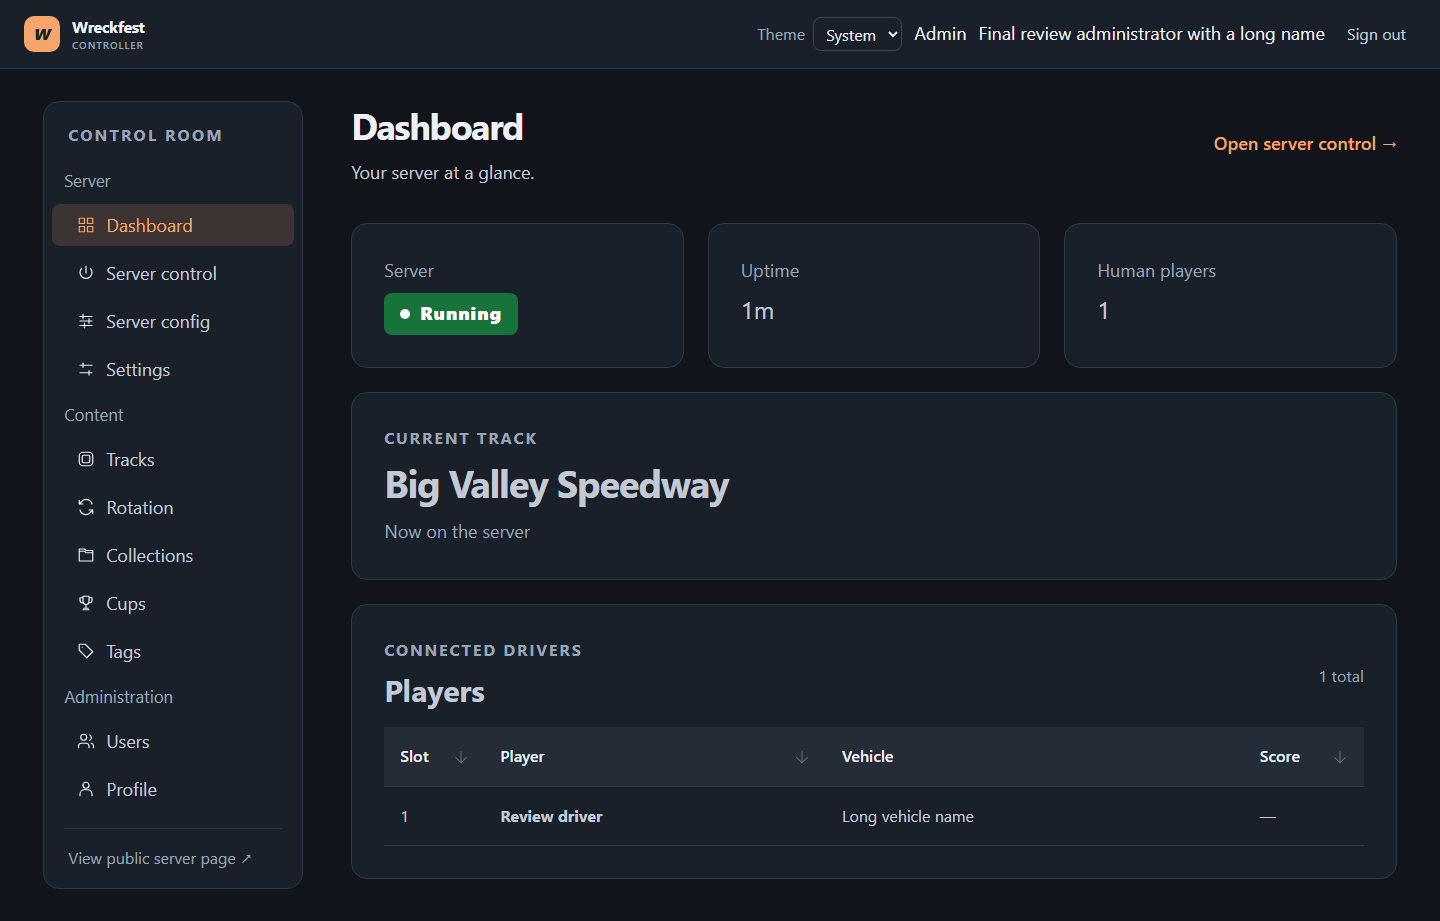
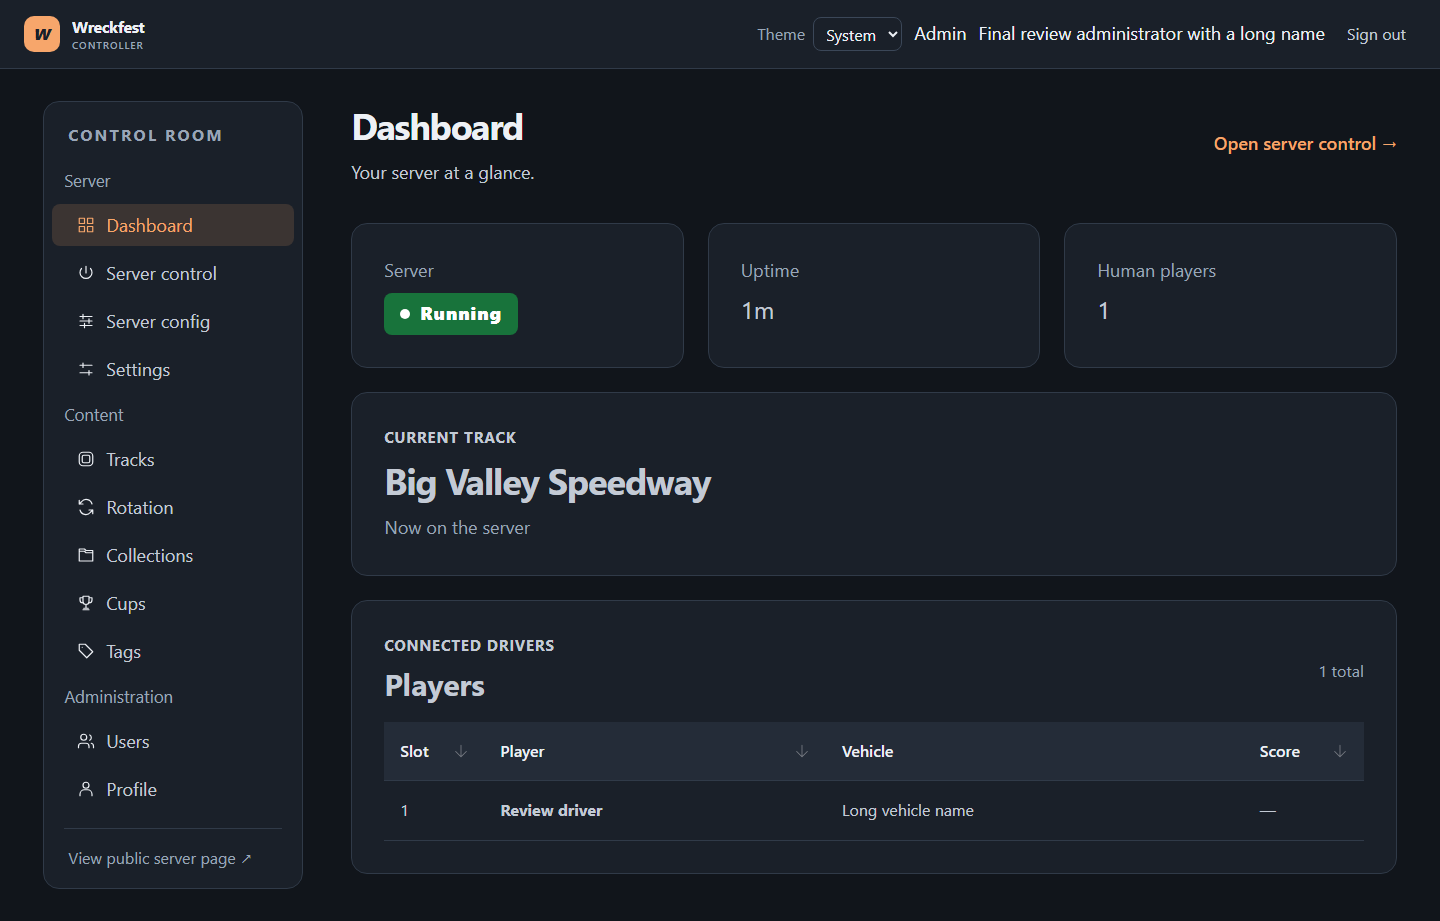
Align admin statuses and typography with the design guide

diff --git a/web/src/views/admin/CupsView.vue b/web/src/views/admin/CupsView.vue
@@ -1,7 +1,8 @@
 <script setup lang="ts">
+import StatusBadge from '@/components/StatusBadge.vue'
 import PageHeader from '@/components/PageHeader.vue'
 import { h, onBeforeUnmount, onMounted, ref, useId } from 'vue'
-import { NButton, NCard, NSpace, NTag, useMessage, type DataTableColumns } from 'naive-ui'
+import { NButton, NCard, NSpace, useMessage, type DataTableColumns } from 'naive-ui'
 import { api } from '@/api/client'
 import type { components } from '@/api/schema'
 import ResourceTable from '@/crud/ResourceTable.vue'
@@ -117,7 +118,7 @@ function activeTag(c: Cup) {
   if (!c.isActive) return null
   const label = c.phase === 'Warmup' ? 'Warmup' : 'Active'
   const title = c.phase === 'Warmup' && c.currentStart ? `Starts ${formatWhen(c.currentStart)}` : c.currentEnd ? `Ends ${formatWhen(c.currentEnd)}` : undefined
-  return h(NTag, { size: 'small', type: c.phase === 'Warmup' ? 'warning' : 'success', class: 'flag', title }, () => label)
+  return h(StatusBadge, { compact: true, tone: c.phase === 'Warmup' ? 'warning' : 'positive', class: 'flag', title }, () => label)
 }
 
 /** The next occurrence, with its warmup and end when it has them. */
@@ -148,7 +149,7 @@ const columns: DataTableColumns<Cup> = [
   {
     title: 'Actions',
     key: 'actions',
-    width: 205,
+    width: 245,
     render: (c) =>
       h(NSpace, { size: 'small', wrap: false }, () => [
         h(NButton, { size: 'small', disabled: busy.value !== null, 'aria-label': 'Edit ' + c.name, onClick: () => void cupEditor.value?.start(c) }, () => 'Edit'),
@@ -217,11 +218,11 @@ onBeforeUnmount(() => {
         </NButton>
         <!-- A failed reload keeps the draft and its notices: show them beside the failure. -->
         <span v-if="rotation" class="rotation-summary" role="status">
-          <NTag v-if="rotation.status === 'failed'" size="small" type="warning" :bordered="false">Could not be read</NTag>
-          <NTag v-if="rotation.notice === 'conflict'" size="small" type="error" :bordered="false">Changed elsewhere</NTag>
-          <NTag v-else-if="rotation.notice === 'stale'" size="small" type="info" :bordered="false">Changed on the server</NTag>
-          <NTag v-else-if="rotation.notice === 'offer'" size="small" type="info" :bordered="false">Save to the cup too?</NTag>
-          <NTag v-if="rotation.dirty" size="small" type="warning" :bordered="false">Unsaved changes</NTag>
+          <StatusBadge v-if="rotation.status === 'failed'" compact tone="negative">Could not be read</StatusBadge>
+          <StatusBadge v-if="rotation.notice === 'conflict'" compact tone="negative">Changed elsewhere</StatusBadge>
+          <StatusBadge v-else-if="rotation.notice === 'stale'" compact tone="warning">Changed on the server</StatusBadge>
+          <StatusBadge v-else-if="rotation.notice === 'offer'" compact tone="neutral">Save to the cup too?</StatusBadge>
+          <StatusBadge v-if="rotation.dirty" compact tone="warning">Unsaved changes</StatusBadge>
           <template v-if="rotation.loaded">
             {{ rotation.tracks }} {{ rotation.tracks === 1 ? 'track' : 'tracks' }} ·
             {{ rotation.cupName ? `set by ${rotation.cupName}` : "the server's own" }}

diff --git a/web/src/theme/tokens.ts b/web/src/theme/tokens.ts
@@ -10,6 +10,9 @@ export const design = {
   display: 'clamp(36px, 5vw, 64px)', lineHeight: '1.65',
   wide: '1600px', form: '840px', formWide: '1120px',
   radiusControl: '8px', radiusPanel: '16px',
+  controlSmall: '36px', controlMedium: '42px', controlLarge: '48px',
+  tagSmall: '28px', tagMedium: '32px', tagLarge: '36px',
+  statusWarning: '#855b03',
   statusPositive: '#18733b', statusNegative: '#be2535', statusText: '#ffffff',
 }
 
@@ -17,9 +20,9 @@ const shared = {
   fontFamily: "system-ui, -apple-system, 'Segoe UI', sans-serif",
   fontFamilyMono: "'Cascadia Mono', Consolas, monospace",
   fontSize: design.body,
-  fontSizeSmall: design.control, fontSizeMedium: design.control, fontSizeLarge: '20px',
+  fontSizeSmall: design.control, fontSizeMedium: design.control, fontSizeLarge: design.count,
   lineHeight: design.lineHeight,
-  heightSmall: '36px', heightMedium: '42px', heightLarge: '48px',
+  heightSmall: design.controlSmall, heightMedium: design.controlMedium, heightLarge: design.controlLarge,
   fontWeightStrong: '600',
   borderRadius: design.radiusControl,
   borderRadiusSmall: '5px',
@@ -54,7 +57,13 @@ export function themeOverrides(mode: ColorMode): GlobalThemeOverrides {
       fontSizeSmall: design.body, fontSizeMedium: design.body, fontSizeLarge: design.body,
       paddingSmall: 'var(--panel-padding)', paddingMedium: 'var(--panel-padding)',
       paddingLarge: 'var(--panel-padding)', paddingHuge: 'var(--panel-padding)',
-      titleFontSizeSmall: '22px', titleFontSizeMedium: '24px', titleFontSizeLarge: design.section,
+      titleFontSizeSmall: design.item, titleFontSizeMedium: design.event, titleFontSizeLarge: design.section,
+    },
+    Tag: {
+      fontSizeTiny: design.label, fontSizeSmall: design.label,
+      fontSizeMedium: design.control, fontSizeLarge: design.control,
+      heightTiny: design.tagSmall, heightSmall: design.tagSmall,
+      heightMedium: design.tagMedium, heightLarge: design.tagLarge,
     },
     DataTable: {
       fontSizeSmall: design.control, fontSizeMedium: design.control, fontSizeLarge: design.body,
@@ -86,6 +95,8 @@ export function themeVariables(mode: ColorMode): Record<string, string> {
     '--line-reading': design.lineHeight,
     '--content-wide': design.wide, '--content-form': design.form, '--content-form-wide': design.formWide,
     '--radius-control': design.radiusControl, '--radius-panel': design.radiusPanel,
+    '--control-height-small': design.controlSmall, '--control-height-medium': design.controlMedium, '--control-height-large': design.controlLarge,
+    '--status-warning': design.statusWarning,
     '--status-positive': design.statusPositive, '--status-negative': design.statusNegative,
     '--status-text': design.statusText,
   }

diff --git a/web/src/views/HomeView.test.ts b/web/src/views/HomeView.test.ts
@@ -1,6 +1,7 @@
-import { describe, expect, it, vi } from 'vitest'
+import { beforeEach, describe, expect, it, vi } from 'vitest'
 import { ref } from 'vue'
 import { mount } from '@vue/test-utils'
+import StatusBadge from '@/components/StatusBadge.vue'
 import HomeView from './HomeView.vue'
 import type { PublicOverview } from '@/composables/usePublicOverview'
 
@@ -28,6 +29,13 @@ const overview: PublicOverview = {
   updatedAt: '2026-09-29T06:00:00Z',
 } as unknown as PublicOverview
 
+beforeEach(() => {
+  state.overview = overview
+  state.error = null
+  state.loading = false
+  state.connectionUnavailable = false
+})
+
 describe('HomeView', () => {
   it('marks a retained snapshot as disconnected only for a transport failure', () => {
     state.overview = overview
@@ -35,6 +43,7 @@ describe('HomeView', () => {
     state.connectionUnavailable = true
     const wrapper = mount(HomeView)
     expect(wrapper.find('.server-status').text()).toBe('NO CONNECTION')
+    expect(wrapper.findComponent(StatusBadge).props('tone')).toBe('negative')
     expect(wrapper.text()).toContain('Last known · connection unavailable')
     expect(wrapper.text()).toContain('Big Valley')
     state.connectionUnavailable = false
@@ -48,6 +57,7 @@ describe('HomeView', () => {
     expect(wrapper.findAll('.game-color-5')).toHaveLength(2)
     expect(wrapper.text()).toContain('3 players, 10 bots / 24 total')
     expect(wrapper.find('.server-status').text()).toBe('UP')
+    expect(wrapper.findComponent(StatusBadge).props('tone')).toBe('positive')
     state.overview = overview
   })
   it('shows DOWN and singular zero/one counts without inventing capacity', () => {
@@ -55,6 +65,7 @@ describe('HomeView', () => {
     state.error = null
     const wrapper = mount(HomeView)
     expect(wrapper.find('.server-status').text()).toBe('DOWN')
+    expect(wrapper.findComponent(StatusBadge).props('tone')).toBe('negative')
     expect(wrapper.find('.occupancy').text()).toBe('0 player, 1 bot')
     state.overview = overview
   })

diff --git a/web/src/components/StatusBadge.vue b/web/src/components/StatusBadge.vue
@@ -1,9 +1,9 @@
 <script setup lang="ts">
-withDefaults(defineProps<{ tone?: 'positive' | 'negative' | 'neutral' }>(), { tone: 'neutral' })
+withDefaults(defineProps<{ tone?: 'positive' | 'negative' | 'warning' | 'neutral'; compact?: boolean; live?: boolean }>(), { tone: 'neutral', compact: false, live: false })
 </script>
 
 <template>
-  <span class="status-badge" :class="'status-' + tone" role="status"><slot /></span>
+  <span class="status-badge" :class="['status-' + tone, { compact }]" :role="live ? 'status' : undefined"><slot /></span>
 </template>
 
 <style scoped>
@@ -11,5 +11,8 @@ withDefaults(defineProps<{ tone?: 'positive' | 'negative' | 'neutral' }>(), { to
 .status-badge::before { content: ''; flex: 0 0 10px; height: 10px; border-radius: 50%; background: currentColor; }
 .status-positive { color: var(--status-text); background: var(--status-positive); }
 .status-negative { color: var(--status-text); background: var(--status-negative); }
+.status-warning { color: var(--status-text); background: var(--status-warning); }
+.compact { padding: 4px 10px; gap: 8px; font-size: var(--font-label); font-weight: 650; letter-spacing: 0; }
+.compact::before { flex-basis: 8px; height: 8px; }
 .status-neutral { color: var(--text-secondary); background: var(--surface); border: 1px solid var(--border-color); }
 </style>

diff --git a/web/src/views/admin/rotation/RotationPanel.vue b/web/src/views/admin/rotation/RotationPanel.vue
@@ -1,6 +1,7 @@
 <script setup lang="ts">
+import StatusBadge from '@/components/StatusBadge.vue'
 import { computed, nextTick, onBeforeUnmount, onMounted, ref, shallowRef, useId, watch } from 'vue'
-import { NAlert, NButton, NInput, NSelect, NSkeleton, NSpace, NTag, useMessage } from 'naive-ui'
+import { NAlert, NButton, NInput, NSelect, NSkeleton, NSpace, useMessage } from 'naive-ui'
 import { api } from '@/api/client'
 import type { components } from '@/api/schema'
 import ConflictDialog from '@/crud/ConflictDialog.vue'
@@ -383,11 +384,11 @@ onBeforeUnmount(() => stops.forEach((stop) => stop()))
       <div class="summary">
         <p class="source">
           <template v-if="cup">
-            <NTag type="success" size="small">Cup</NTag>
+            <StatusBadge compact tone="positive">Cup</StatusBadge>
             <span>Set by <strong>{{ cup.name }}</strong><template v-if="cup.activatedAt">, active since {{ formatWhen(cup.activatedAt) }}</template>.</span>
           </template>
           <template v-else>
-            <NTag size="small">No cup</NTag>
+            <StatusBadge compact tone="neutral">No cup</StatusBadge>
             <span>The server's own rotation.</span>
           </template>
         </p>

diff --git a/web/src/views/admin/UsersView.test.ts b/web/src/views/admin/UsersView.test.ts
@@ -2,6 +2,7 @@ import { afterEach, beforeEach, describe, expect, it, vi } from 'vitest'
 import { defineComponent, h } from 'vue'
 import { DOMWrapper, flushPromises, mount, type VueWrapper } from '@vue/test-utils'
 import { NDialogProvider, NMessageProvider } from 'naive-ui'
+import StatusBadge from '@/components/StatusBadge.vue'
 import UsersView from './UsersView.vue'
 
 const api = vi.hoisted(() => ({ GET: vi.fn(), POST: vi.fn(), PUT: vi.fn(), DELETE: vi.fn() }))
@@ -67,6 +68,16 @@ afterEach(() => {
 })
 
 describe('UsersView', () => {
+  it('shows active and locked accounts with the correct static status tones', async () => {
+    api.GET.mockResolvedValue(answer([me, { ...other, isLockedOut: true }]))
+    mountPage()
+    await flushPromises()
+    const badges = wrapper!.findAllComponents(StatusBadge)
+    expect(badges.map((badge) => [badge.text(), badge.props('tone')])).toEqual([
+      ['Active', 'positive'], ['Locked', 'negative'],
+    ])
+    expect(badges.every((badge) => badge.attributes('role') === undefined)).toBe(true)
+  })
   // The server refuses it too; the page does not offer it.
   it('does not offer to lock or delete your own account', async () => {
     mountPage()

diff --git a/web/src/views/admin/DashboardView.vue b/web/src/views/admin/DashboardView.vue
@@ -171,8 +171,8 @@ const columns: DataTableColumns<PlayerSummary> = [
 .metric-card { min-width: 0; }
 .metric-suffix { margin-left: 8px; color: var(--text-muted); font-size: var(--font-meta); }
 .track-card { margin-bottom: var(--space-6); min-width: 0; }
-.eyebrow { margin: 0; color: var(--text-muted); font-size: var(--font-meta); font-weight: 700; letter-spacing: .12em; text-transform: uppercase; }
-.track-card h2 { margin: 10px 0 0; font-size: clamp(25px, 3vw, 38px); line-height: 1.15; letter-spacing: -.03em; overflow-wrap: anywhere; }
+.eyebrow { margin: 0; color: var(--text-secondary); font-size: var(--font-label); font-weight: 700; letter-spacing: .06em; text-transform: uppercase; }
+.track-card h2 { margin: 10px 0 0; font-size: var(--font-title); line-height: 1.15; letter-spacing: -.03em; overflow-wrap: anywhere; }
 .track-caption { margin: 12px 0 0; color: var(--text-muted); }
 .roster-heading { display: flex; justify-content: space-between; align-items: center; gap: 12px; margin-bottom: 12px; }
 .roster-heading h2 { margin: 3px 0 0; font-size: var(--font-section); }

diff --git a/web/src/views/admin/ServerControlView.vue b/web/src/views/admin/ServerControlView.vue
@@ -270,7 +270,7 @@ onBeforeUnmount(() => stops.forEach((stop) => stop()))
 .state-note { margin: 0 0 16px; color: var(--text-muted); }
 .action-groups { display: grid; grid-template-columns: repeat(2, minmax(0, 1fr)); gap: 22px 28px; }
 .action-group { min-width: 0; }
-.action-group h3 { margin: 0 0 6px; font-size: var(--font-meta); }
+.action-group h3 { margin: 0 0 12px; font-size: var(--font-item); line-height: 1.35; }
 .action-group p { min-height: 3.2em; margin: 0 0 14px; color: var(--text-muted); font-size: var(--font-meta); }
 .recovery { grid-column: 1 / -1; padding-top: 20px; border-top: 1px solid var(--border-color); }
 .recovery p { min-height: 0; }
@@ -287,7 +287,7 @@ onBeforeUnmount(() => stops.forEach((stop) => stop()))
   border-radius: var(--radius-control);
   background: #111317;
   color: #e5e9ee;
-  font: 16px/1.65 var(--font-family-mono, Consolas, monospace);
+  font: var(--font-control)/var(--line-reading) var(--font-family-mono, Consolas, monospace);
   white-space: pre-wrap;
   overflow-wrap: anywhere;
 }

diff --git a/web/src/views/LoginView.vue b/web/src/views/LoginView.vue
@@ -102,7 +102,7 @@ async function submit() {
   font-weight: 800;
   font-style: italic;
 }
-.eyebrow { margin: 0 0 8px; color: var(--text-muted); font-size: var(--font-meta); font-weight: 700; letter-spacing: .12em; text-transform: uppercase; }
+.eyebrow { margin: 0 0 8px; color: var(--text-secondary); font-size: var(--font-label); font-weight: 700; letter-spacing: .06em; text-transform: uppercase; }
 .login-intro .eyebrow { margin-top: 28px; }
 .login-intro h1 { margin: 0; font-size: var(--font-display); line-height: 1.05; letter-spacing: -.04em; }
 .login-intro > p:last-child { max-width: 36ch; margin-top: 20px; color: var(--text-secondary); font-size: var(--font-body); }
@@ -112,7 +112,6 @@ async function submit() {
 @media (max-width: 700px) {
   .login-page { grid-template-columns: 1fr; gap: 28px; margin: 28px auto; }
   .login-intro .eyebrow { margin-top: 18px; }
-  .login-intro h1 { font-size: 36px; }
   .login-intro > p:last-child { margin: 10px 0 0; font-size: var(--font-meta); }
 }
 </style>

diff --git a/web/src/components/StatusBadge.test.ts b/web/src/components/StatusBadge.test.ts
@@ -1,0 +1,17 @@
+import { describe, expect, it } from 'vitest'
+import { mount } from '@vue/test-utils'
+import StatusBadge from './StatusBadge.vue'
+
+describe('StatusBadge announcements', () => {
+  it('does not create live regions for routine row statuses', () => {
+    const wrapper = mount(StatusBadge, { props: { tone: 'positive', compact: true }, slots: { default: 'Active' } })
+    expect(wrapper.text()).toBe('Active')
+    expect(wrapper.attributes('role')).toBeUndefined()
+    expect(wrapper.attributes('aria-live')).toBeUndefined()
+  })
+  it('announces changes only when the owner opts in', () => {
+    const wrapper = mount(StatusBadge, { props: { live: true }, slots: { default: 'NO CONNECTION' } })
+    expect(wrapper.attributes('role')).toBe('status')
+    expect(wrapper.text()).toBe('NO CONNECTION')
+  })
+})

diff --git a/web/src/views/admin/UsersView.vue b/web/src/views/admin/UsersView.vue
@@ -1,4 +1,5 @@
 <script setup lang="ts">
+import StatusBadge from '@/components/StatusBadge.vue'
 import PageHeader from '@/components/PageHeader.vue'
 import { computed, h, onMounted, reactive, ref } from 'vue'
 import {
@@ -231,8 +232,8 @@ const columns: DataTableColumns<User> = [
   {
     title: 'Status',
     key: 'isLockedOut',
-    width: 100,
-    render: (user) => h(NTag, { type: user.isLockedOut ? 'error' : 'success', size: 'small' }, { default: () => (user.isLockedOut ? 'Locked' : 'Active') }),
+    width: 145,
+    render: (user) => h(StatusBadge, { tone: user.isLockedOut ? 'negative' : 'positive', compact: true }, { default: () => (user.isLockedOut ? 'Locked' : 'Active') }),
   },
   {
     title: 'Actions',

diff --git a/web/src/views/HomeView.vue b/web/src/views/HomeView.vue
@@ -60,7 +60,7 @@ const statusLabel = computed(() =>
       <section class="race-hero" aria-labelledby="server-title">
         <div class="hero-content">
           <div class="hero-topline">
-            <StatusBadge class="server-status" :tone="error || !overview.status.isRunning ? 'negative' : 'positive'">{{ statusLabel }}</StatusBadge>
+            <StatusBadge live class="server-status" :tone="error || !overview.status.isRunning ? 'negative' : 'positive'">{{ statusLabel }}</StatusBadge>
             <h1 id="server-title"><span v-for="(part, index) in titleParts" :key="index" :class="part.code ? 'game-color-' + part.code : undefined">{{ part.text }}</span></h1>
           </div>
           <div class="current-race">
